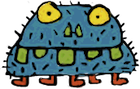
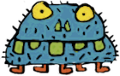
Moving monster and better shooting image

diff --git a/doodleJump/main.py b/doodleJump/main.py
@@ -1,3 +1,4 @@
+from matplotlib.colors import PowerNorm
 import pygame
 import random
 from sys import exit
@@ -13,7 +14,8 @@ playerImage = pygame.image.load(
 playerShoot = pygame.image.load(
     "doodleJump/graphics/shoot.png").convert_alpha()
 leafImage = pygame.image.load("doodleJump/graphics/leaf.png").convert_alpha()
-monsterImage = pygame.image.load("doodleJump/graphics/monster.png").convert_alpha()
+monsterImage = pygame.image.load(
+    "doodleJump/graphics/monster.png").convert_alpha()
 
 # Pygame configs
 clock = pygame.time.Clock()
@@ -24,10 +26,13 @@ pointsFont = pygame.font.SysFont("comicsans", 20)
 gameOverFont = pygame.font.SysFont("Verdana", 30)
 
 # Music
-pygame.mixer.Channel(0).play(pygame.mixer.Sound('doodleJump/audio/main.wav'),-1)
-
+pygame.mixer.Channel(0).play(
+    pygame.mixer.Sound('doodleJump/audio/main.wav'), -1)
+pygame.mixer.Channel(0).set_volume(0)
 
 # Object instantiating
+
+
 class Leaf:
     def __init__(self, x, y):
         self.x = x
@@ -46,14 +51,17 @@ class Monster:
     def __init__(self, x, y):
         self.x = x
         self.y = y
+        self.direction = 1
+        self.speed = random.randint(1, 2)
 
 
 # Creating objects
 doodle = Player()
-leafs = [Leaf(random.randrange(0, 270), random.randrange(0, 600))for i in range(14)]
+leafs = [Leaf(random.randrange(0, 270), random.randrange(0, 600))
+         for i in range(14)]
 screen.blit(leafImage, (doodle.x, doodle.y+20))
 points = 0
-monster="   "
+monster = ""
 while True:
     # if close window button is pressed the game closes
     for event in pygame.event.get():
@@ -90,20 +98,24 @@ while True:
                 leaf.y = 0
                 leaf.x = random.randrange(0, 270)
                 points += 1
-            if points%20:
-                monster=Monster(1,2)
-    # Jumping
+            if points % 75 == 0 and points > 1:
+                monster = Monster(1, 2)
+
+    # player Jumping
     doodle.dy += 0.2
     doodle.y += doodle.dy
+
+    # death and points
     if doodle.y > 600:
         pygame.mixer.pause()
+        monster = ""
         screen.fill("red")
         text = gameOverFont.render("Game Over...", 1, (0, 0, 0))
         screen.blit(text, (70, 200))
         text = gameOverFont.render(f"Score: {points} points", 1, (0, 0, 0))
         screen.blit(text, (40, 350))
     else:
-        # if game not over draw points
+        # if game not over, draw points
         text = pointsFont.render("Points: " + str(points), 1, (0, 0, 0))
         screen.blit(text, (220, 10))
 
@@ -118,9 +130,23 @@ while True:
     else:
         screen.blit(playerImage, [doodle.x, doodle.y])
 
-    #monster display
-    if monster!="":
-        screen.blit(monsterImage, (monster.x,monster.y))
+    # monster display
+    if not monster == '':
+        # Move monster down when player moves up
+        if doodle.y < doodle.h:
+            monster.y -= doodle.dy
+        # Move monster depending on the direction
+        if monster.direction:
+            monster.x += monster.speed
+        else:
+            monster.x -= monster.speed
+        # Change monster direction
+        if monster.x >= 230:
+            monster.direction = 0
+        elif monster.x <= 0:
+            monster.direction = 1
+        # draw monser
+        screen.blit(monsterImage, (monster.x, monster.y))
 
     pygame.display.update()
     clock.tick(60)

diff --git a/doodleJump/test.py b/doodleJump/test.py
@@ -1,0 +1,1 @@
+print(1%2)
